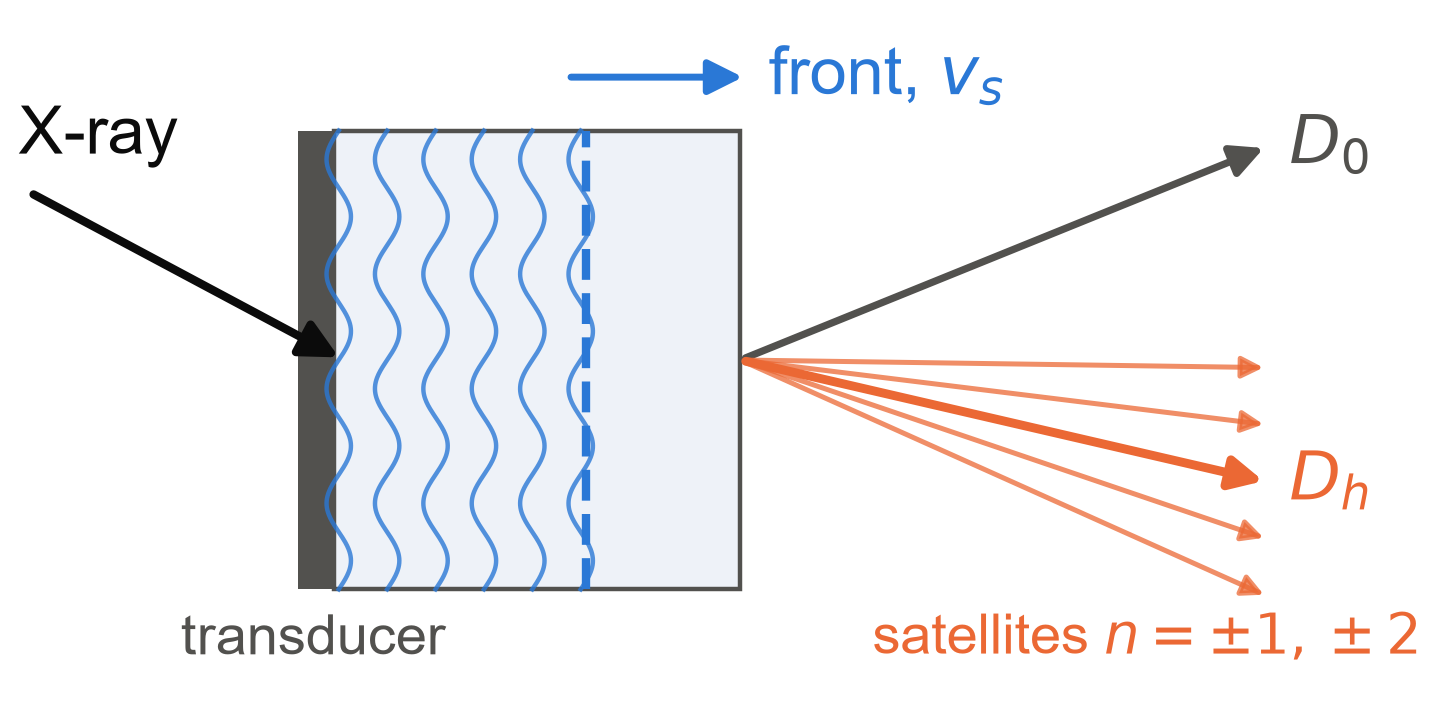
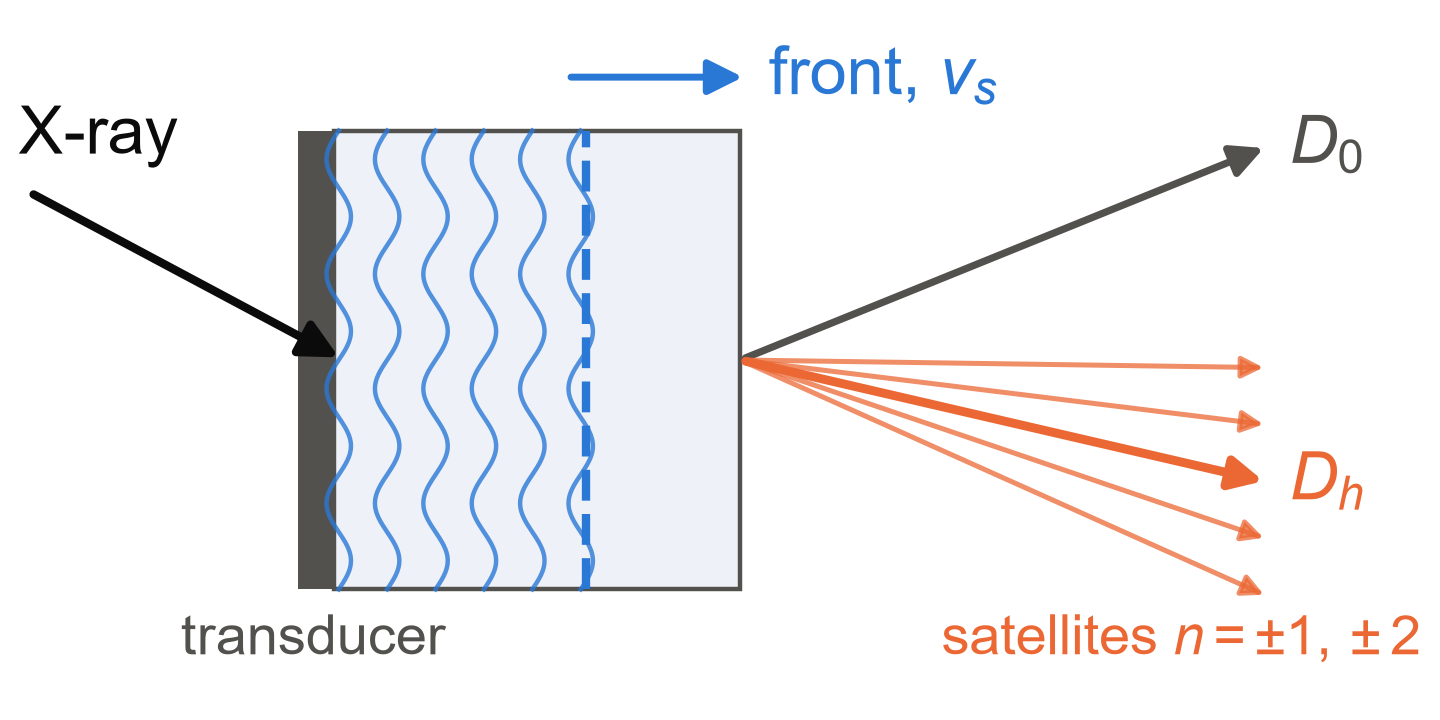
Poster design pass 2: one typeface, tighter heads, balanced columns
- inline math and figure math in Arial (was DejaVu next to Arial text)
- section square = cap height on the baseline; heading sits close to its card
- wide panel: shorter side centred vertically; glued punctuation never starts a line
- two-pass layout spreads spare height between panels so both columns end level
- f1 shares the y axis (one set of tick labels)

diff --git a/poster/build.py b/poster/build.py
@@ -22,6 +22,9 @@ Checks
 2. every figure file exists;
 3. no column runs into the footer (no silent reflow: move "@column" instead);
 4. no text below SPEC["min_pt"].
+
+Layout runs twice: the first, unsaved pass measures each column; the second spreads the spare
+height evenly between the panels of that column, so both columns end level with the footer.
 """
 
 from __future__ import annotations
@@ -35,7 +38,9 @@ import matplotlib
 matplotlib.use("Agg")
 # Word-by-word placement needs text widths that scale linearly with dpi; hinting breaks that and
 # makes long words overrun the next one in a preview rendered at another dpi.
-matplotlib.rcParams.update({"text.hinting": "none", "text.hinting_factor": 1, "mathtext.fontset": "dejavusans",
+matplotlib.rcParams.update({"text.hinting": "none", "text.hinting_factor": 1, "mathtext.fontset": "custom",
+                            "mathtext.rm": "Arial", "mathtext.it": "Arial:italic", "mathtext.bf": "Arial:bold",
+                            "mathtext.sf": "Arial",
                             "pdf.fonttype": 42})   # TrueType in the PDF: editable, accepted by print shops
 import matplotlib.image as mpimg  # noqa: E402
 import matplotlib.pyplot as plt  # noqa: E402
@@ -52,7 +57,7 @@ SPEC = dict(
     W=841, H=1189, margin=16, gap=14, cols=2, pad=12,
     header_h=130, stripe_h=5, footer_h=56,
     title_pt=64, authors_pt=34, head_pt=44, body_pt=28, callout_pt=32, caption_pt=22, min_pt=20,
-    leading=1.30, para_gap=7, panel_gap=14, fig_gap=4,
+    leading=1.30, para_gap=7, panel_gap=10, fig_gap=4,
     navy="#0f2a3a", page="#efefef", card="#ffffff", head="#2f5597", ink="#1b1b1b", ink2="#55524c",
     callout="#fff2cc", stripe=("#3a3a3a", "#e04b3a", "#f08a3c"), rule="#d5dbe5",
     font="Arial",
@@ -125,7 +130,7 @@ class Page:
             t.remove()
         return self._w[key]
 
-    def flow(self, text, x, y, w, pt, color=None, bold=False, indent=0.0, align="left", z=3):
+    def flow(self, text, x, y, w, pt, color=None, bold=False, indent=0.0, align="left", z=3, draw=True):
         """Word-by-word placement with wrapping; $..$ and **..** stay atomic. Returns the new y (mm)."""
         color = color or SPEC["ink"]
         lh = pt * PT_MM * SPEC["leading"]
@@ -144,9 +149,18 @@ class Page:
             tw = self.width(s, pt, b)
             add = tw + (0 if g or not line else sp)
             if line and lw + add > w - indent:
-                lines.append((line, lw))
-                line, lw, add, g = [], 0.0, tw, False
-            line.append((s, b, g, tw))
+                k = len(line)                                # glued run ending the line moves along
+                while g and k > 1 and line[k - 1][2]:
+                    k -= 1
+                if g:
+                    k -= 1
+                carry = line[k:] if k > 0 else []
+                kept = line[:k] if k > 0 else line
+                lines.append((kept, sum(t[3] for t in kept) + sp * sum(1 for t in kept[1:] if not t[2])))
+                line = [(cs, cb, i > 0 and cg, ctw) for i, (cs, cb, cg, ctw) in enumerate(carry)]
+                lw = sum(t[3] for t in line) + sp * sum(1 for t in line[1:] if not t[2])
+                add = tw if not line else tw + (0 if g else sp)
+            line.append((s, b, g if line else False, tw))
             lw += add
         if line:
             lines.append((line, lw))
@@ -156,8 +170,9 @@ class Page:
             for s, b, g, tw in line:
                 if not g and not first:
                     cx += sp
-                self.ax.text(cx, y, s, fontsize=pt, color=color, family=SPEC["font"], zorder=z,
-                             fontweight="bold" if b else "normal", va="baseline")
+                if draw:
+                    self.ax.text(cx, y, s, fontsize=pt, color=color, family=SPEC["font"], zorder=z,
+                                 fontweight="bold" if b else "normal", va="baseline")
                 cx += tw
                 first = False
             y += lh
@@ -173,8 +188,11 @@ class Page:
         return h
 
 
-def build(preview_dpi=60):
+def build(preview_dpi=60, extra=None, save=True):
+    """One layout pass. extra[c] is added after each panel of column c except the last, so the
+    columns end level with the footer (filled in by a first, unsaved pass; see __main__)."""
     s = SPEC
+    extra = extra or [0.0] * SPEC["cols"]
     meta, panels = parse(MS.read_text(encoding="utf8"))
     known = set(re.findall(r"^## .*?Entry (\d+)\b", NOTEBOOK.read_text(encoding="utf8"), flags=re.M))
     problems, used = [], set()
@@ -212,6 +230,7 @@ def build(preview_dpi=60):
     top = s["header_h"] + s["stripe_h"] + 2 + s["panel_gap"]
     bottom = fy - s["panel_gap"]
     ys = [top] * s["cols"]
+    count = [0] * s["cols"]
     col = 0
     num = 0
     for p in panels:
@@ -226,18 +245,23 @@ def build(preview_dpi=60):
         ix, iw = x + s["pad"], w - 2 * s["pad"]
         y = y0 + s["pad"] * 0.6
         # section head: ■ 01. Title
-        sq = s["head_pt"] * PT_MM * 0.62
-        ax.add_patch(plt.Rectangle((x, y + s["head_pt"] * PT_MM * 0.24), sq, sq, color=s["ink"], lw=0, zorder=3))
-        hx = x + sq + 5
+        cap = s["head_pt"] * PT_MM * 0.72                     # Arial cap height
+        base = y + s["head_pt"] * PT_MM
+        ax.add_patch(plt.Rectangle((x, base - cap), cap, cap, color=s["ink"], lw=0, zorder=3))
+        hx = x + cap + 5
         y = P.flow(f"{num:02d}. {p['title']}", hx, y, w - (hx - x), s["head_pt"], s["head"], bold=True)
-        y += s["para_gap"] + 2
+        y += 3
         card_top = y
         y += s["pad"]
         # A wide panel with a figure is laid out side by side: text left, figure right (half width each).
         side = p["wide"] and any(it["kind"] == "fig" for it in p["items"])
         if side:
             fx, ix, iw = ix + iw / 2 + s["gap"] / 2, ix, iw / 2 - s["gap"] / 2
-            fy = y
+            fh = sum(iw * (lambda a: a.shape[0] / a.shape[1])(mpimg.imread(ROOT / it["path"]))
+                     for it in p["items"] if it["kind"] == "fig" and (ROOT / it["path"]).exists())
+            th = text_height(P, p["items"], ix, iw) - s["para_gap"]
+            fy = y + max(0.0, (th - fh) / 2)
+            y += max(0.0, (fh - th) / 2)
         for it in p["items"]:
             if not it["tags"]:
                 problems.append(f"panel {num:02d}: untagged {it['kind']}: {it.get('text', it.get('caption'))[:50]!r}")
@@ -277,8 +301,9 @@ def build(preview_dpi=60):
         if p["wide"]:
             ys = [y] * s["cols"]
         else:
-            ys[col] = y
-        if y - s["panel_gap"] > bottom:
+            count[col] += 1
+            ys[col] = y + extra[col]
+        if y - s["panel_gap"] > bottom + 0.5:
             problems.append(f"panel {num:02d} ({p['title'][:30]}) runs {y - s['panel_gap'] - bottom:.0f} mm "
                             f"into the footer")
     for k in ("body_pt", "caption_pt", "head_pt"):
@@ -287,11 +312,15 @@ def build(preview_dpi=60):
     if not ASSETS.exists():
         print("note: poster/assets/ missing — logos skipped")
 
+    left = [bottom - (v - s["panel_gap"] - extra[i]) for i, v in enumerate(ys)]
+    if not save:
+        plt.close(P.fig)
+        return [lf / (n - 1) if n > 1 and lf > 0 else 0.0 for lf, n in zip(left, count)]
     OUT.mkdir(exist_ok=True)
     P.fig.savefig(OUT / "poster.pdf")
     P.fig.savefig(OUT / "poster.png", dpi=preview_dpi)
-    print("column bottoms (mm left above footer): " + "  ".join(f"{i + 1}: {bottom - (v - s['panel_gap']):.0f}"
-                                                              for i, v in enumerate(ys)))
+    print("column space distributed between panels (mm per gap): " +
+          "  ".join(f"{i + 1}: {e:.0f}" for i, e in enumerate(extra)))
     print("entries cited: " + ", ".join(f"E{e}" for e in sorted(used)))
     print(f"wrote {OUT / 'poster.pdf'} and poster.png")
     if problems:
@@ -303,5 +332,19 @@ def build(preview_dpi=60):
     return 0
 
 
+def text_height(P, items, ix, iw):
+    """Height of the text items of a panel, measured without drawing (for vertical centring)."""
+    s, y = SPEC, 0.0
+    for it in items:
+        if it["kind"] == "bullet":
+            y = P.flow(it["text"], ix, y, iw, s["body_pt"], indent=8, draw=False) + s["para_gap"]
+        elif it["kind"] == "callout":
+            y = P.flow(it["text"], ix + 8, y + 7, iw - 16, s["callout_pt"], draw=False) + 7 + s["para_gap"]
+        elif it["kind"] == "para":
+            y = P.flow(it["text"], ix, y, iw, s["body_pt"], draw=False) + s["para_gap"]
+    return y
+
+
 if __name__ == "__main__":
-    sys.exit(build(int(sys.argv[1]) if len(sys.argv) > 1 else 60))   # optional preview dpi
+    dpi = int(sys.argv[1]) if len(sys.argv) > 1 else 60      # optional preview dpi
+    sys.exit(build(dpi, extra=build(save=False)))            # pass 1 measures, pass 2 balances the columns

diff --git a/explore/make_poster_figs.py b/explore/make_poster_figs.py
@@ -38,7 +38,8 @@ def style():
         "axes.edgecolor": INK2, "axes.labelcolor": INK, "text.color": INK, "xtick.color": INK2,
         "ytick.color": INK2, "axes.spines.top": False, "axes.spines.right": False,
         "figure.facecolor": "white", "savefig.facecolor": "white", "savefig.dpi": 200,
-        "font.family": "Arial", "mathtext.fontset": "dejavusans",
+        "font.family": "Arial", "mathtext.fontset": "custom", "mathtext.rm": "Arial",
+        "mathtext.it": "Arial:italic", "mathtext.bf": "Arial:bold", "mathtext.sf": "Arial",
     })
 
 
@@ -91,7 +92,7 @@ def f0():
 def f1():
     import make_poster_figure as M
     style()
-    fig, ax = plt.subplots(1, 2, figsize=(FIG_W, 5.4), constrained_layout=True)
+    fig, ax = plt.subplots(1, 2, figsize=(FIG_W, 5.4), constrained_layout=True, sharey=True)
     M.collapse(ax[0], "laue", lambda s: np.sin(np.pi * s) ** 2, r"$\sin^2(\pi\alpha_n\tilde t)$",
                r"Laue: $\sin^2(\pi\alpha_n\tilde t)$", small=SMALL - 4, ms=9)
     M.collapse(ax[1], "bragg", lambda s: np.tanh(np.pi * s) ** 2, r"$\tanh^2(\pi\alpha_n\tilde t)$",
@@ -102,6 +103,7 @@ def f1():
     for a in ax:
         a.set_xlabel(r"$\alpha_n\tilde t$,   $\alpha_n=\alpha|J_n(S)|$")
     ax[1].set_ylabel("")
+    ax[1].tick_params(labelleft=False)          # shared y axis: one set of tick labels
     finish(fig, ax, "f1_collapse")
 
 
